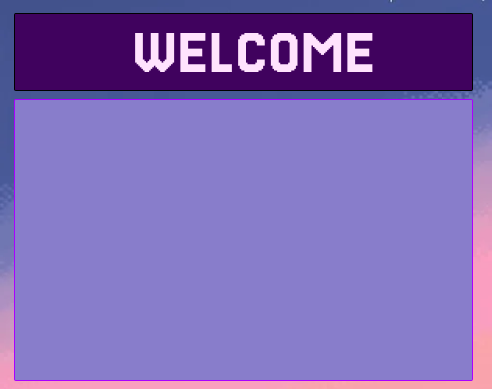
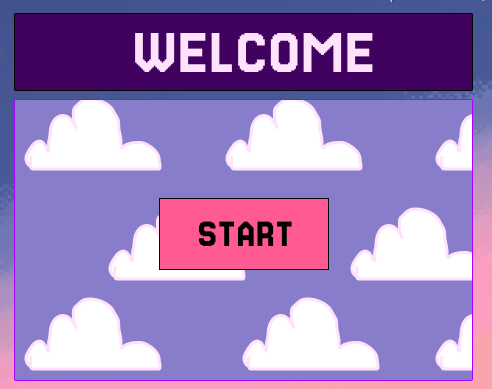
La nouvelle fenetr s'ouvre bien avec els bonens dimenssions, mais la page n'arrete aps  de se rafraichir, et un onglet chrome s'ouvre en meme temps

diff --git a/index.js b/index.js
@@ -1,4 +1,32 @@
-function startGame() {
-    window.location.href = 'page2.html';
-  }
-  
+let newWindow = null; // Declare a variable to store the window reference
+
+// Flag to ensure the window opens only once
+let isWindowOpen = false;
+
+window.onload = function() {
+    // Function to open the new window based on the background size
+    function openLiveWindow() {
+        // If the window is already open, don't open it again
+        if (isWindowOpen) {
+            return; // Stop the function if the window is already open
+        }
+
+        // Get the background image size
+        var background = document.querySelector('.background1');
+        
+        // Get the width and height of the background image
+        var width = background.naturalWidth;
+        var height = background.naturalHeight;
+
+        // Open the new window with the size of the background image and hide window controls
+        var features = `width=${width},height=${height},toolbar=no,menubar=no,location=no,status=no,resizable=no,scrollbars=no`;
+        newWindow = window.open("index.html", "LiveWindow", features);
+
+        // Set the flag to true to prevent opening the window again
+        isWindowOpen = true;
+    }
+
+    // Trigger the openLiveWindow function immediately when the page loads (Go Live)
+    openLiveWindow();
+};
+

diff --git a/index.css b/index.css
@@ -1,34 +1,37 @@
 body {
     margin: 0;
     padding: 0;
-    font-family: Arial, sans-serif;
-  }
-  
-  .background {
+}
+
+.backgroundhomepge{
+    position : relative;
+    width:100%;
+    background-size:cover;
+}
+
+.start-button{
+    position:absolute;
+    left: 12%;
+    top:45%;
+    cursor : pointer
+}
+
+.background1{
+    width:auto;
+    height:auto
+}
+
+html, body {
+    margin: 0;
+    padding: 0;
+    height: 100%;
+    overflow: hidden;
+}
+
+.backgroundhomepage, .background1 {
     width: 100%;
-    height: 100vh;
-    object-fit: cover; 
-  }
-  
-  .start-button {
-    position: absolute;
-    top: 50%;
-    left: 50%;
-    transform: translate(-50%, -50%);
-    background-color: #f0a500;
-    border: none;
-    padding: 12px 24px;
-    font-size: 18px;
-    color: white;
-    cursor: pointer;
-    border-radius: 8px;
-  }
-  
-  @media (max-width: 768px) {
-    .start-button {
-      width: 80%;
-      padding: 10px;
-      font-size: 16px;
-    }
-  }
-  
+    height: 100%;
+    display: block;
+    margin: 0;
+    padding: 0;
+}

diff --git a/index.html b/index.html
@@ -1,16 +1,17 @@
 <!DOCTYPE html>
 <html>
     <meta charset="UFT-8"/>
-    <title>Hello World!</title>
+    <title>MINIGAME</title>
     <link rel="stylesheet" href="index.css"/>
     <body>
-        <h1>MiniGames</h1>
 
         <div class="backgroundhomepage">
             <img src="assets/BACKGROUND.png" alt="arriere-plan1" class="background1">
+            <img src="assets/START.png" alt="Bouton-de-demarrage" class="start-button">
         </div>
 
-        <button class="start-button" onclick="startGame()">Start</button>
         <script src="index.js"></script>
     </body>
 </html>
+
+  
